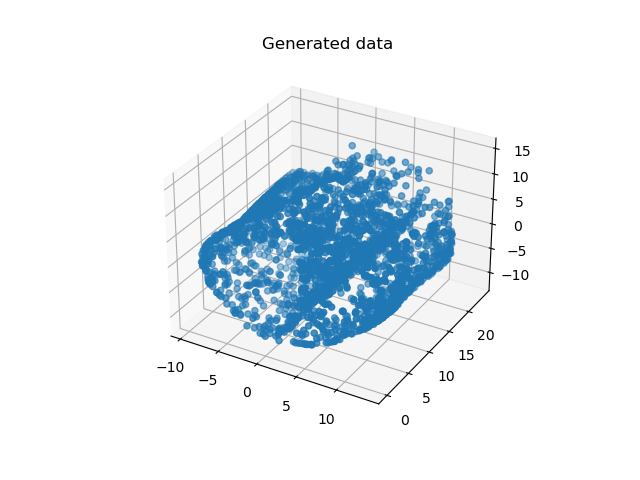
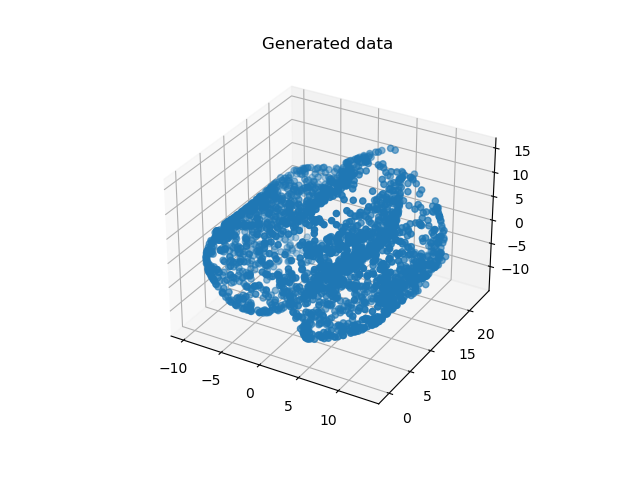
Apr. 11 updates

diff --git a/P2/P2_SWAE.py b/P2/P2_SWAE.py
@@ -15,7 +15,7 @@ os.environ["KMP_DUPLICATE_LIB_OK"] = "TRUE"
 # Hyperparameters
 N = 2500            # Number of data points
 L = 512             # Number of slices
-EPOCH = 200         # Number of epochs
+EPOCH = 1000         # Number of epochs
 BSIZE = 100         # Batch size
 EPS = 0.05         # Loss normalization coefficient
 

diff --git a/P3/P3_GAN.py b/P3/P3_GAN.py
@@ -12,7 +12,7 @@ os.environ["KMP_DUPLICATE_LIB_OK"] = "TRUE"
 
 # Hyperparameters
 N = 2500            # Number of data points
-EPOCH = 5000         # Number of epochs
+EPOCH = 3500         # Number of epochs
 BSIZE = 250         # Batch size
 D_ITER = 5
 

diff --git a/P2/P2_VAE.py b/P2/P2_VAE.py
@@ -14,7 +14,7 @@ os.environ["KMP_DUPLICATE_LIB_OK"] = "TRUE"
 
 # Hyperparameters
 N = 2500            # Number of data points
-EPOCH = 200         # Number of epochs
+EPOCH = 1000         # Number of epochs
 BSIZE = 100         # Batch size
 EPS = 0.05
 
